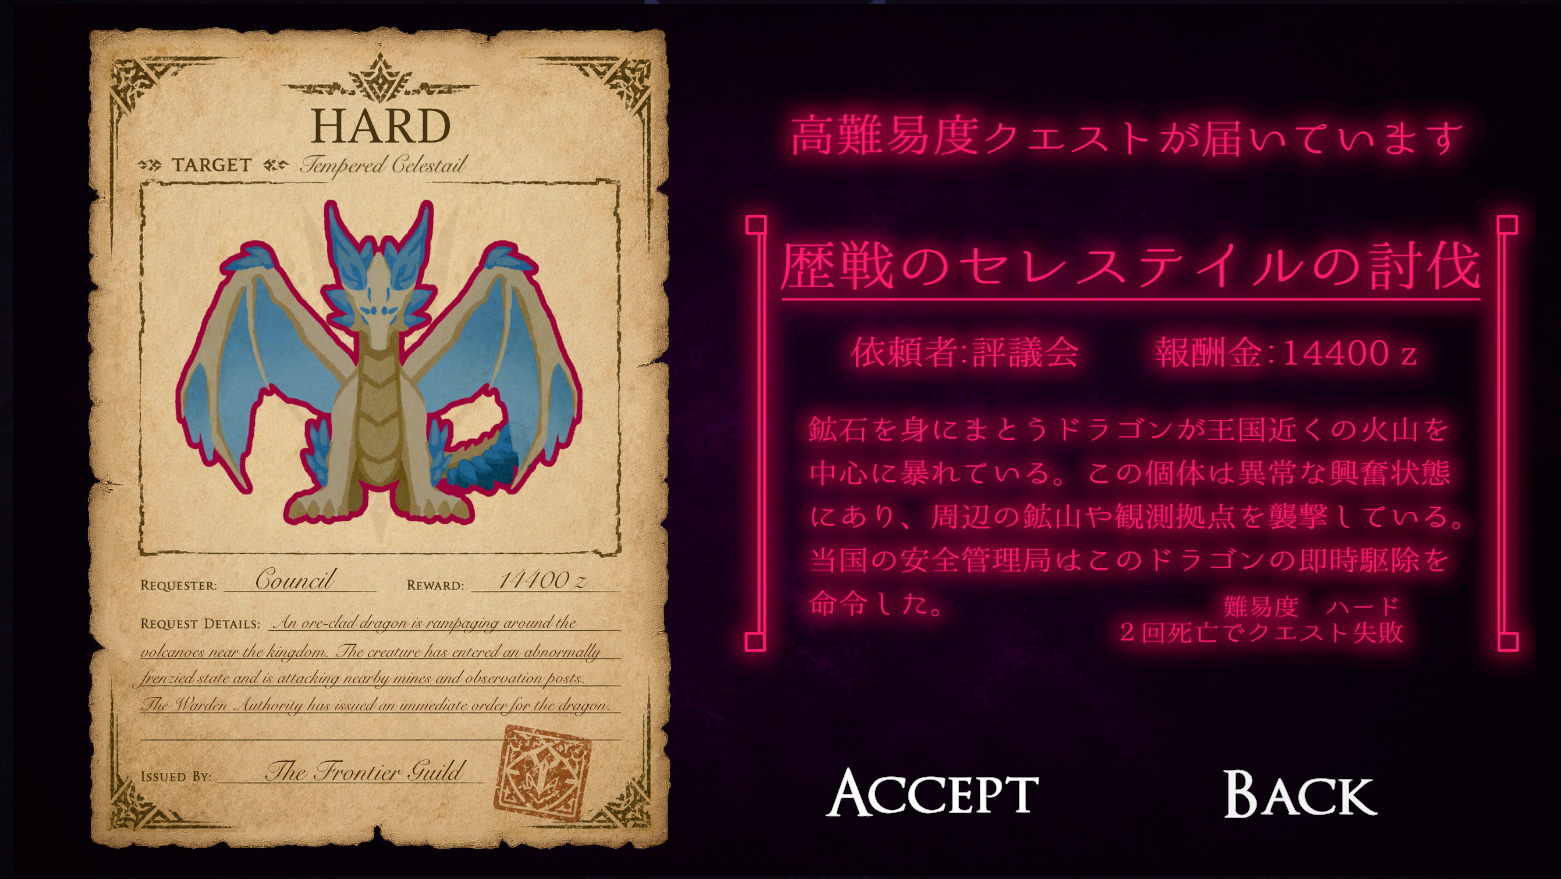
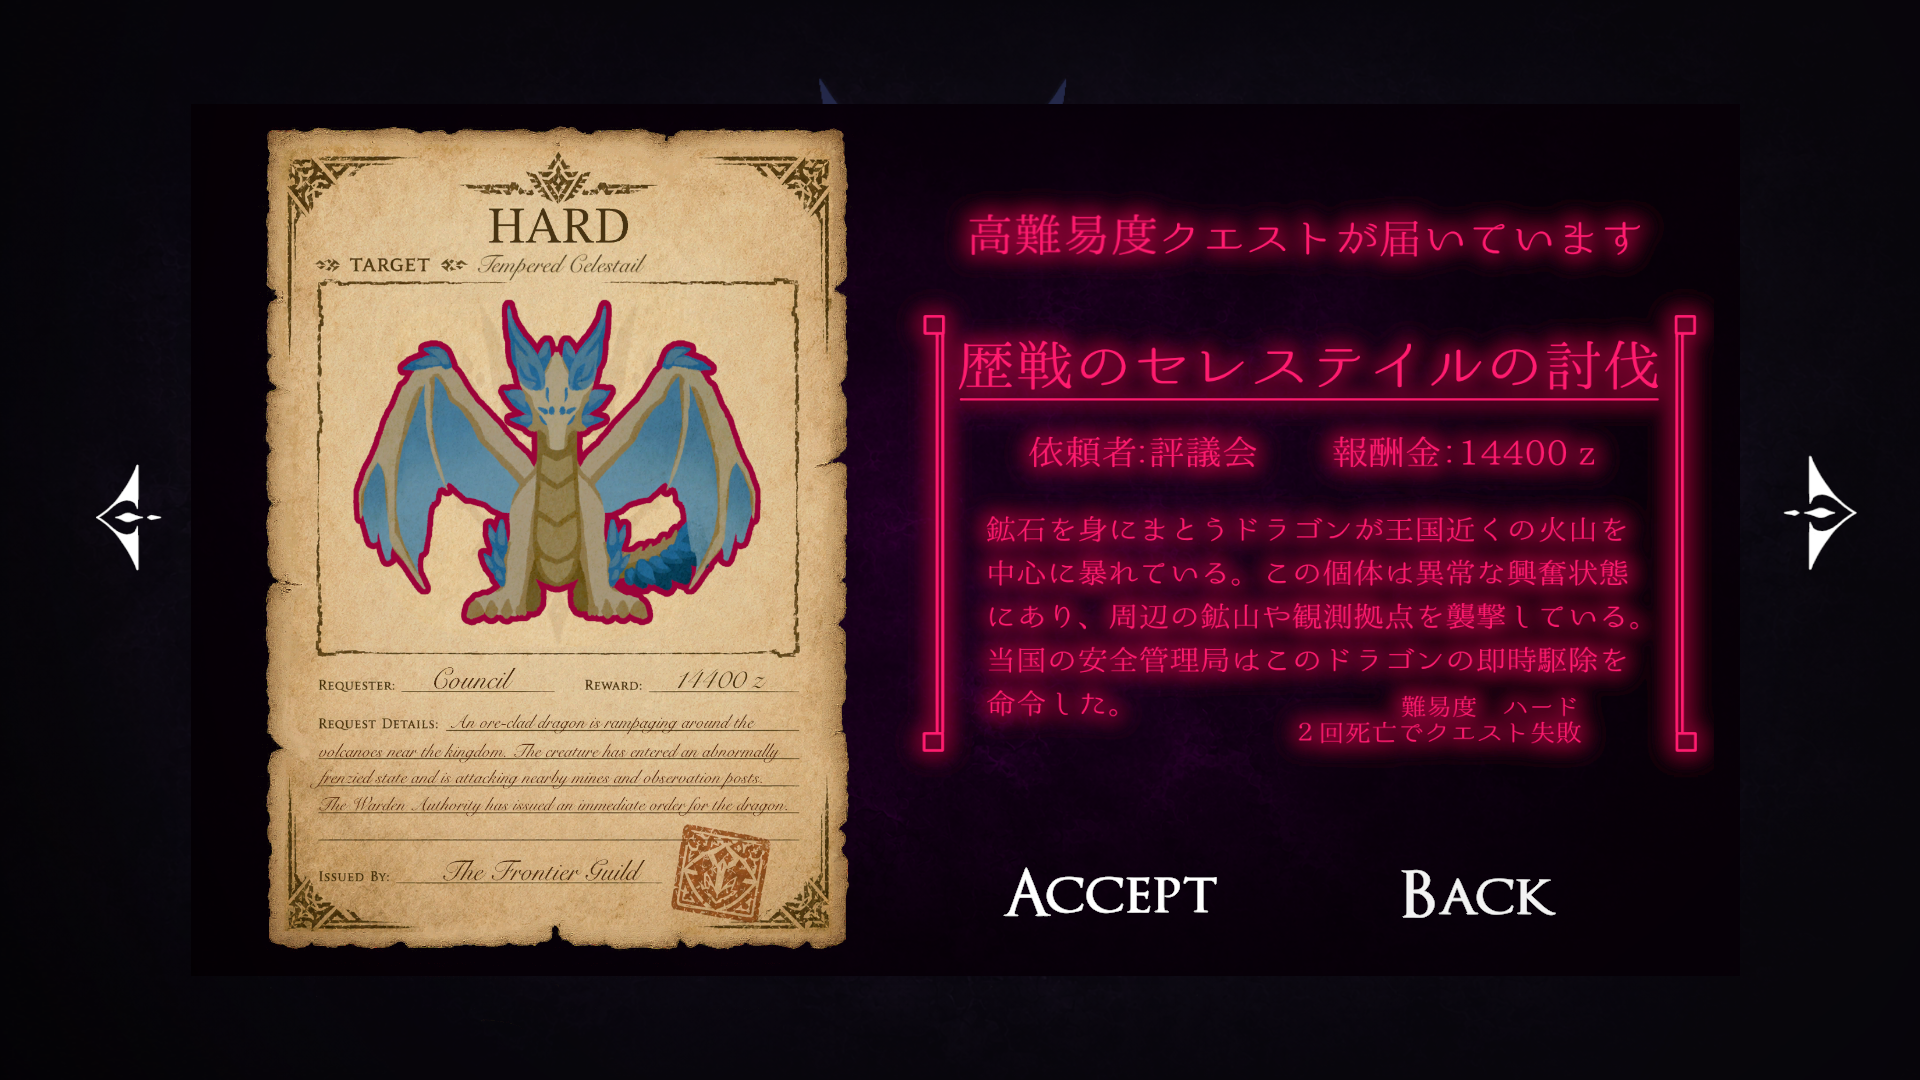
UI変更

diff --git a/index.html b/index.html
@@ -239,7 +239,7 @@
           </p>
           <div class="work-meta">
             <span>担当：企画 / 実装 / UI / 難易度調整 / テスト分析 / 制作主導 / Blender制作補助</span>
-            <span>要素：Easy・Normal・Hard / 部位破壊(尻尾切断) / リザルトスコア / パッド操作</span>
+            <span>要素：Easy・Normal・Hard / 部位破壊 / リザルトスコア / パッド操作</span>
           </div>
           <div class="work-actions">
             <a class="btn primary" href="https://withberry1717-sudo.github.io/monster-portfolio-site/" target="_blank" rel="noreferrer">制作振り返り兼紹介サイトを見る</a>
@@ -292,7 +292,7 @@
 
       <div class="work-grid">
         <article class="work-card compact-work">
-          <img src="./assets/action-analysis-web.png" alt="アクションゲーム分析Webのトップ画面">
+          <img class="work-thumb" src="./assets/frame-analysis.svg" alt="アクションゲーム分析Webのイメージ" />
           <p class="work-type">Analysis / Web</p>
           <h3>アクションゲーム分析Web</h3>
           <p>